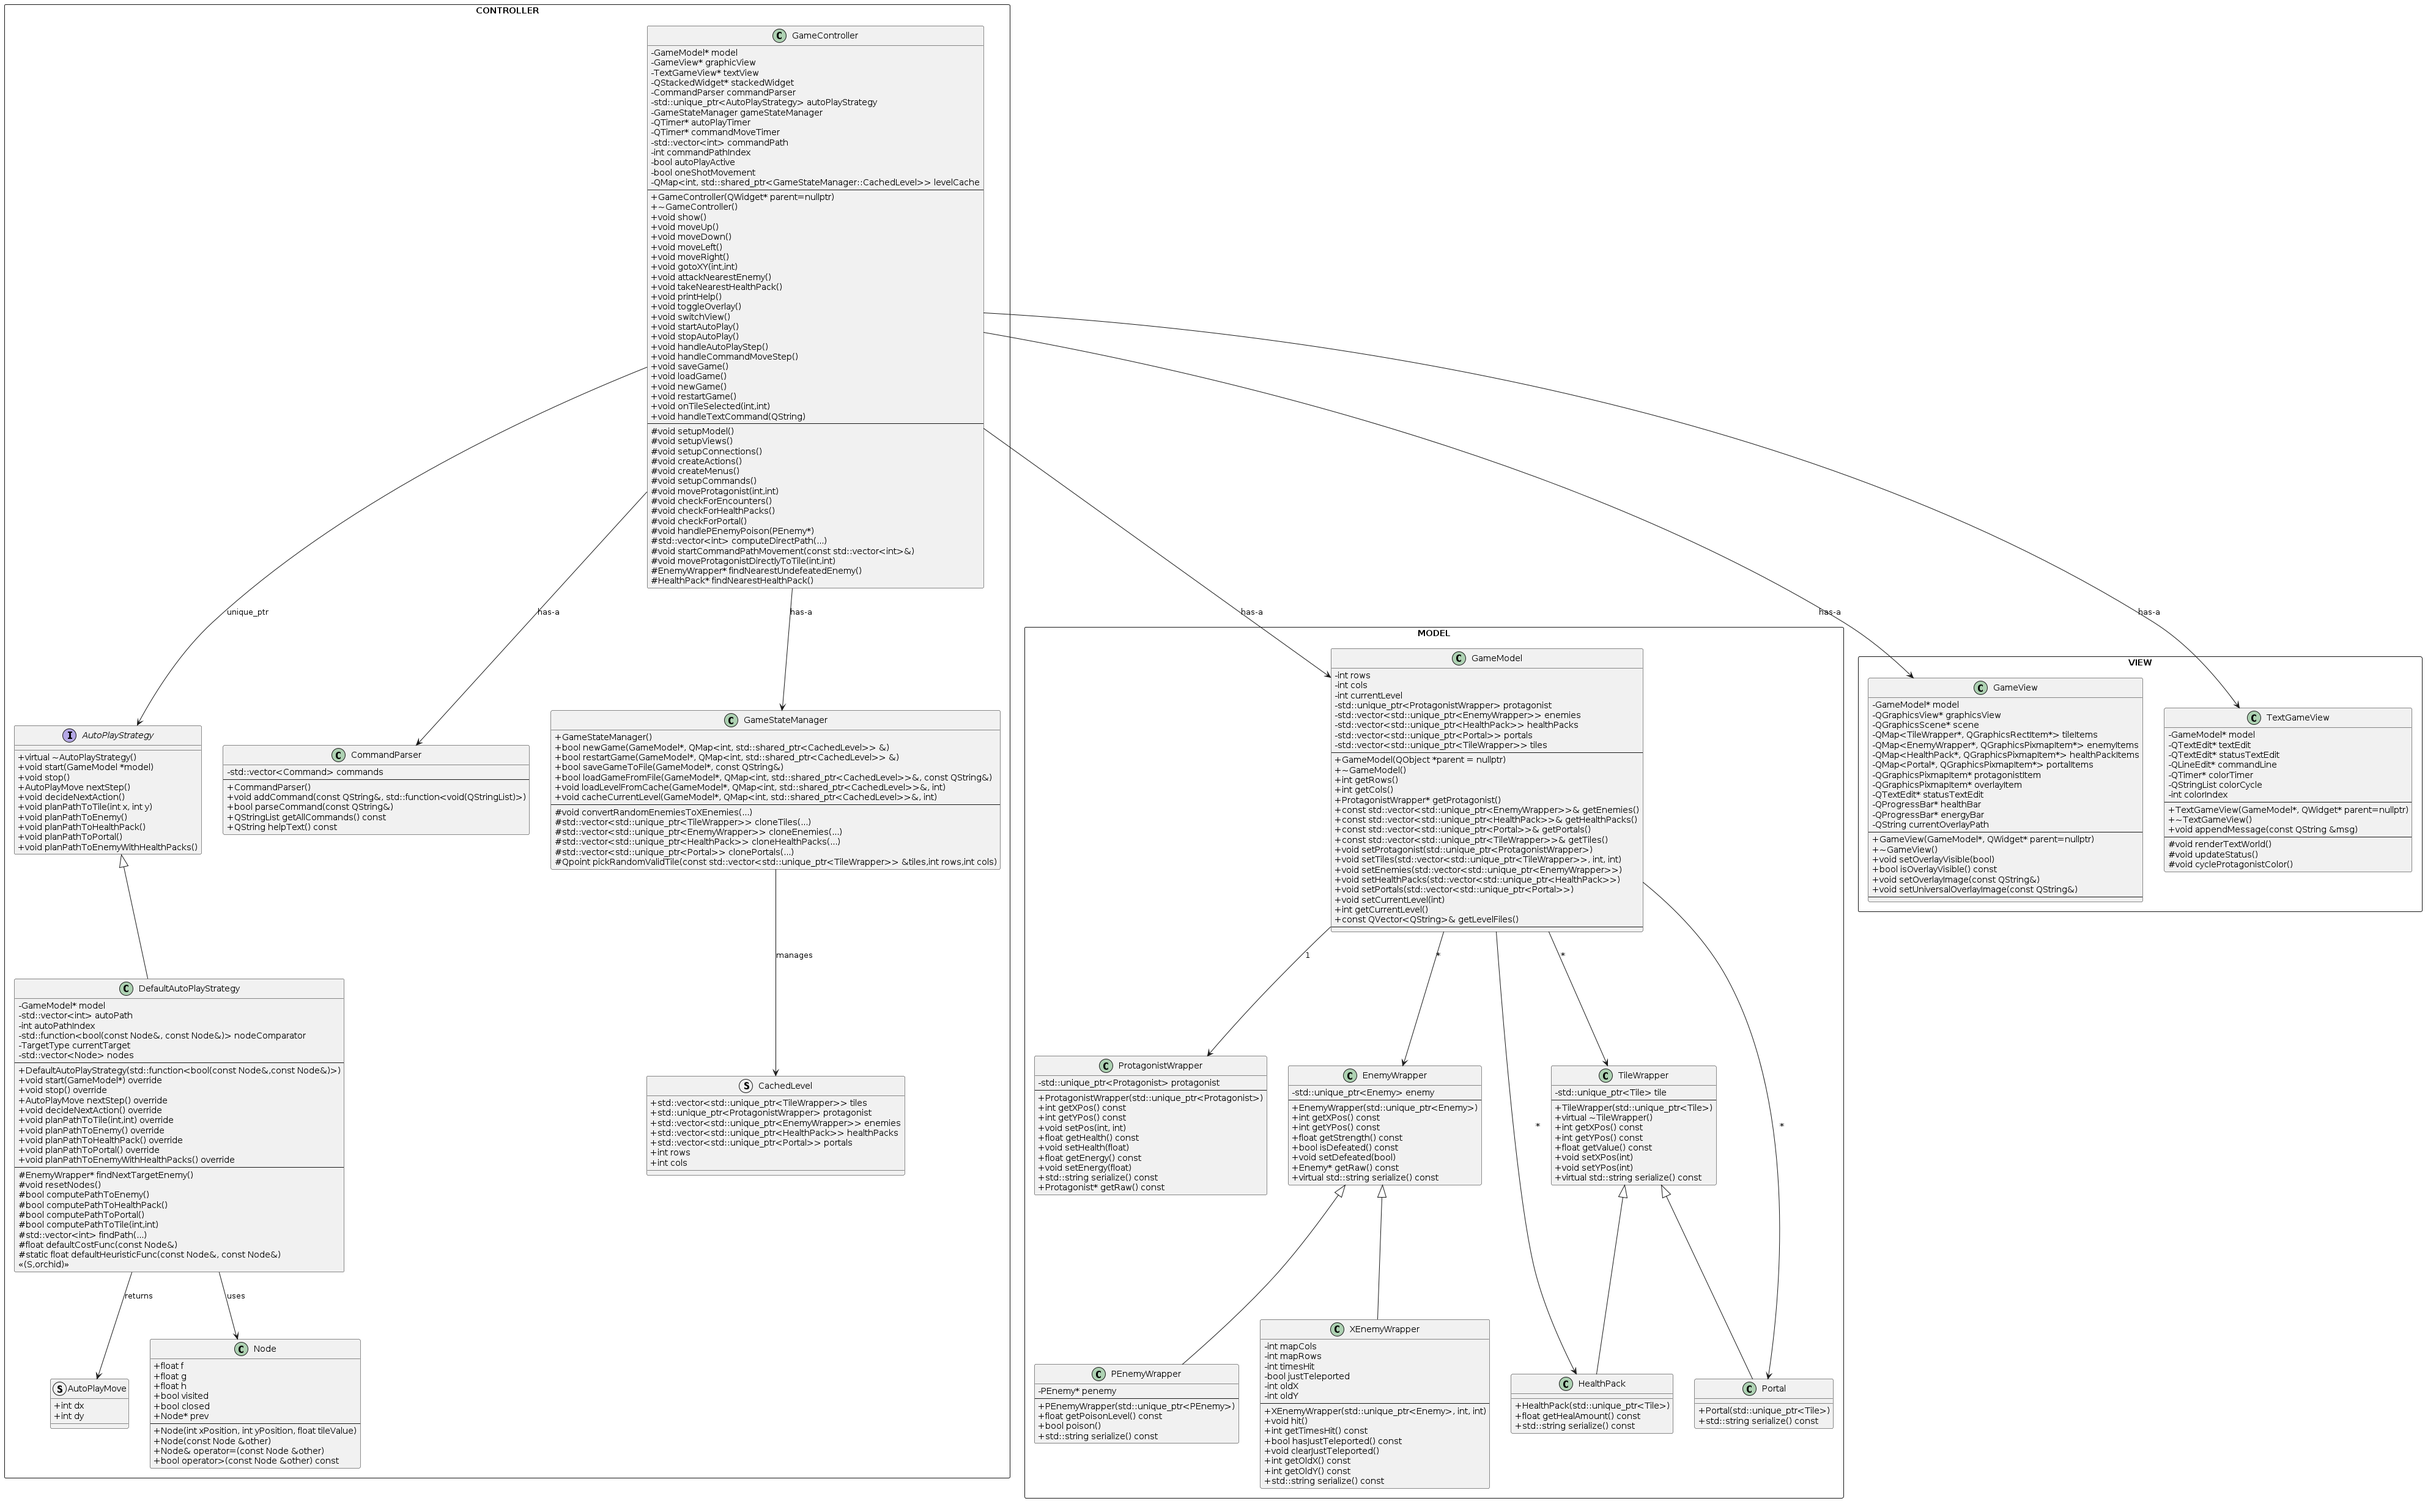
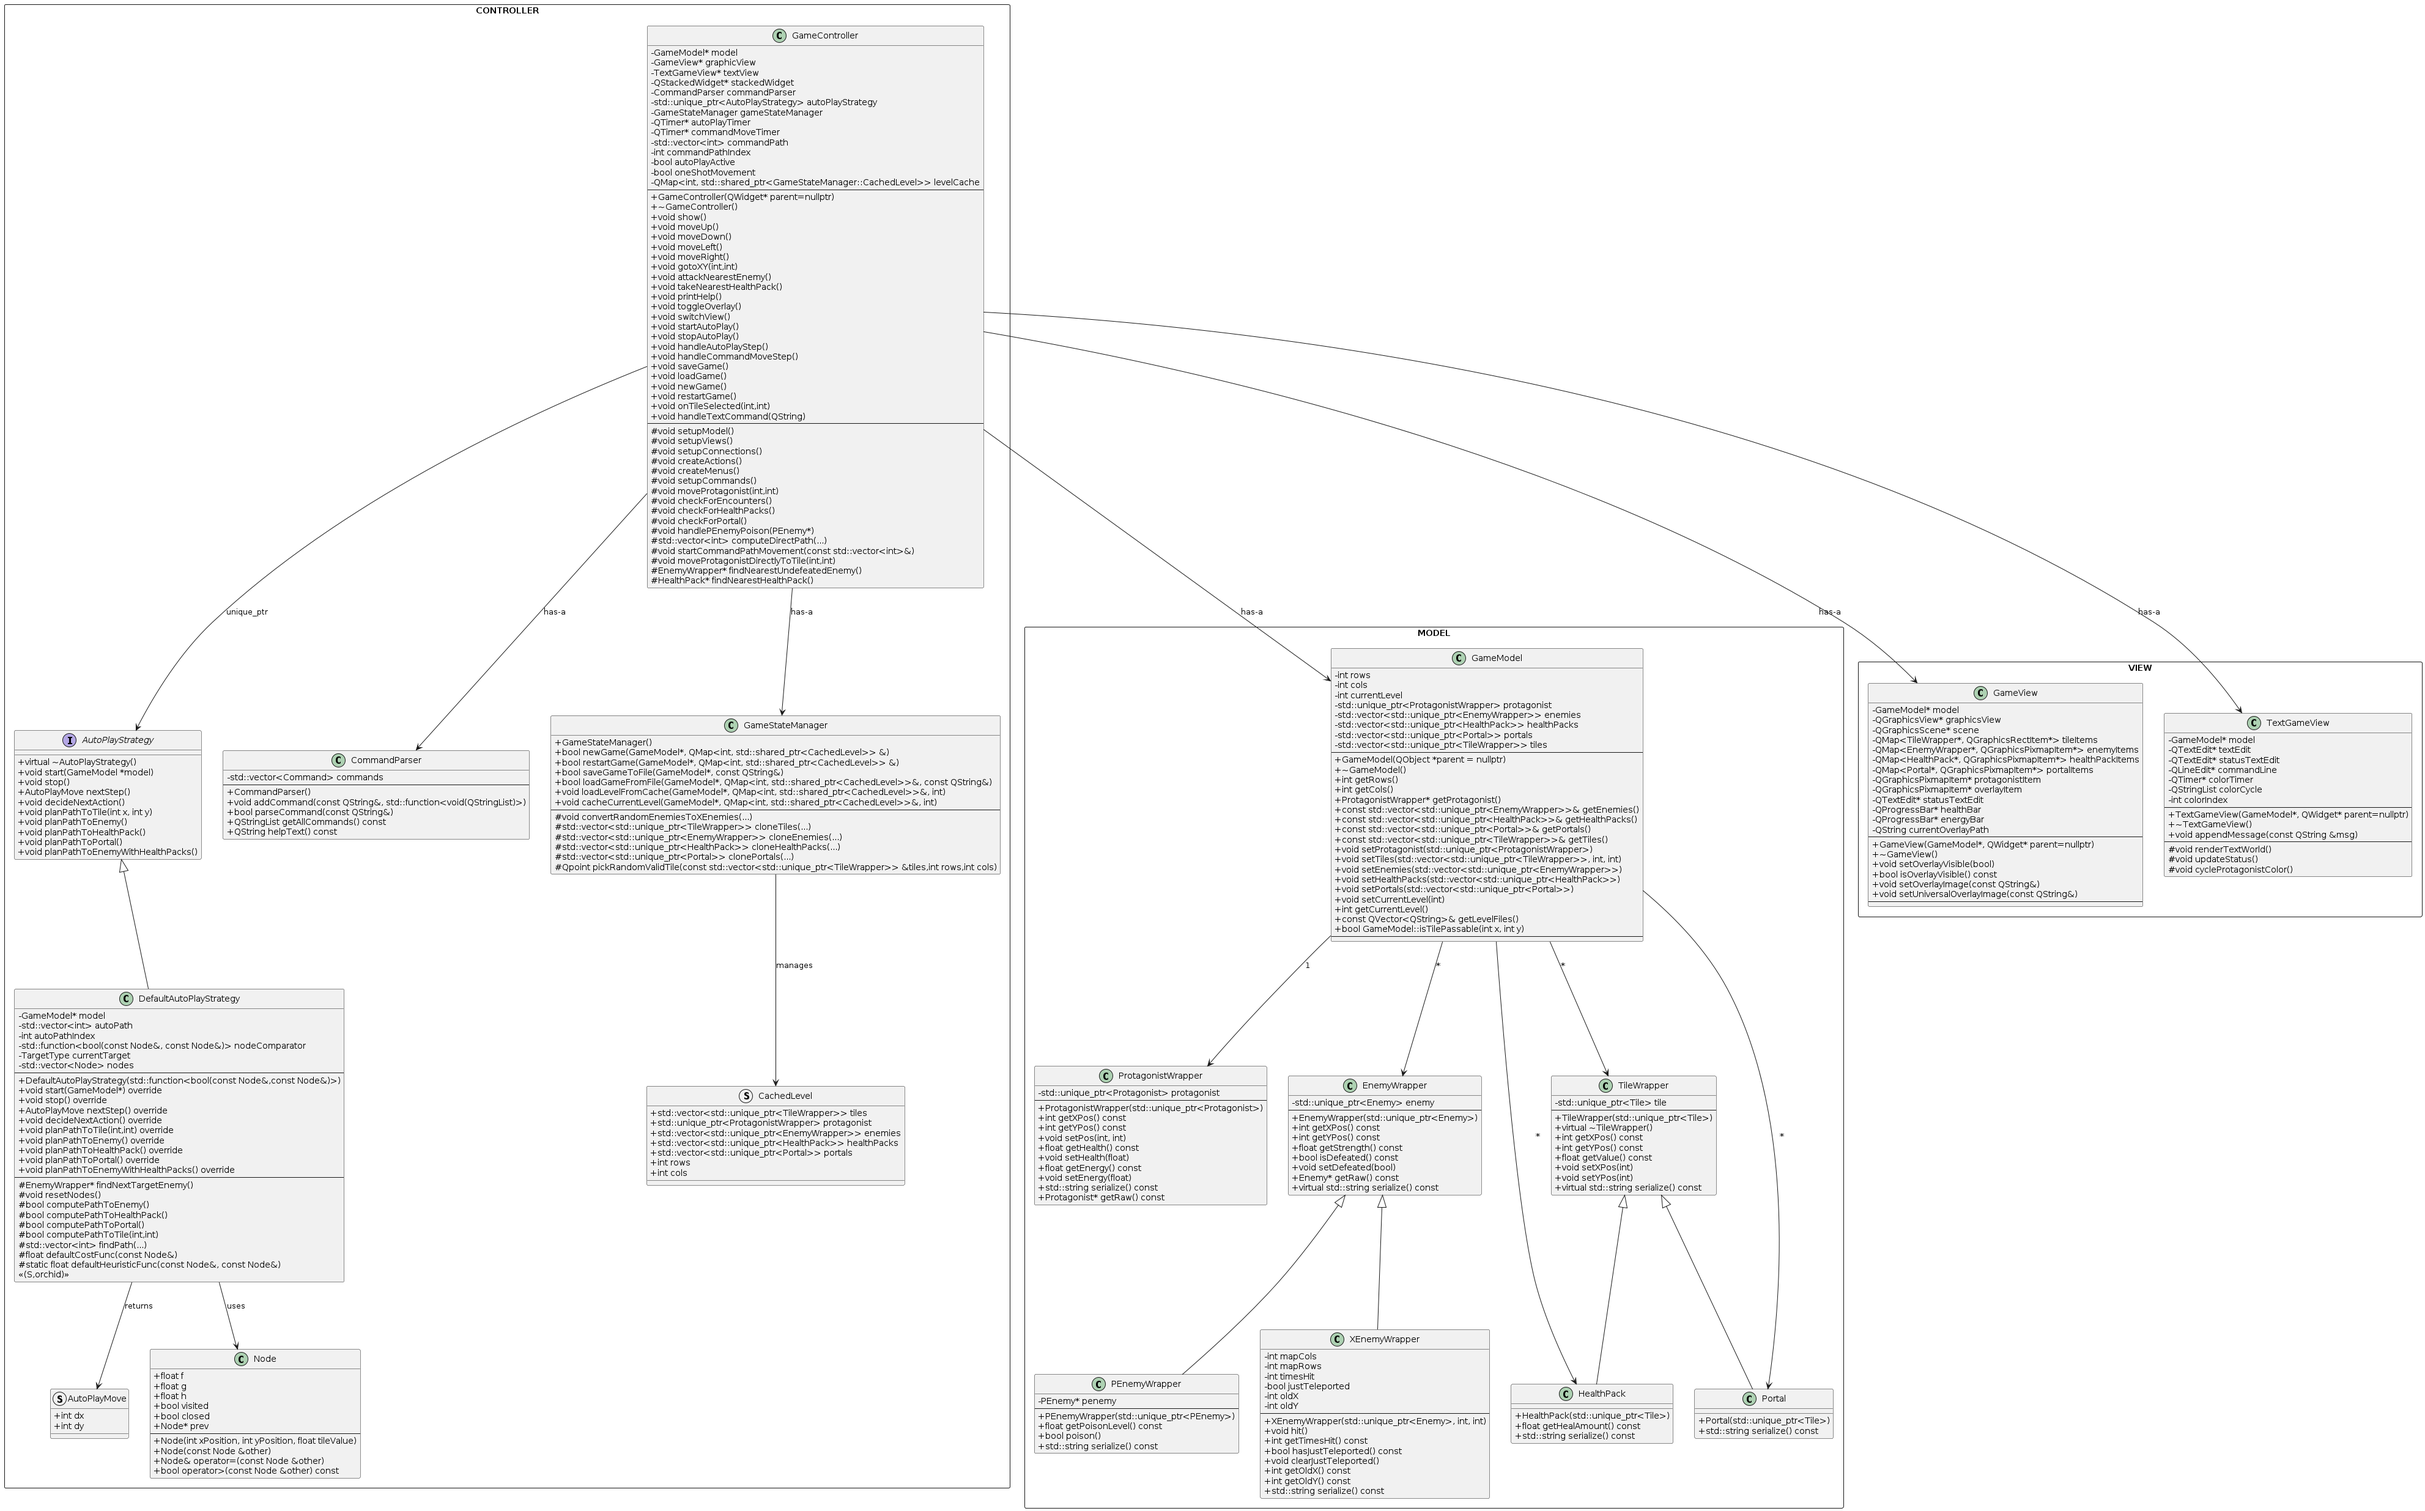
Add post-hit checks for XEnemy teleport in checkForEncounters
Immediately perform additional logic after calling xE->hit() on an
XEnemy (e.g.,
retrieve new coordinates) before emitting modelUpdated(), ensuring the
updated
positions or other conditions are handled in the same encounter step.

Also updated UML Design for adding function isTilePassable

diff --git a/gamemodel.cpp b/gamemodel.cpp
@@ -37,3 +37,23 @@ void GameModel::setPortals(std::vector<std::unique_ptr<Portal>> p) {
     portals = std::move(p);
     emit modelUpdated();
 }
+
+bool GameModel::isTilePassable(int x, int y) const
+{
+    // 1) Check bounds
+    if (x < 0 || x >= cols || y < 0 || y >= rows) {
+        return false;  // Out of bounds is definitely not passable
+    }
+
+    // 2) Convert (x, y) into an index for tiles[y*cols + x]
+    int index = y * cols + x;
+
+    // 3) Check if the tile is infinite
+    float tileValue = tiles[index]->getValue();
+    if (tileValue == std::numeric_limits<float>::infinity()) {
+        return false;  // Not passable
+    }
+
+    // Otherwise, it's passable
+    return true;
+}

diff --git a/gamecontroller.cpp b/gamecontroller.cpp
@@ -401,6 +401,14 @@ void GameController::checkForEncounters()
                 // XEnemy logic:
                 if (xE->getTimesHit() == 0) {
                     xE->hit();
+
+                    int newX = xE->getXPos();
+                    int newY = xE->getYPos();
+
+                    if(!model->isTilePassable(newX,newY)){
+                        xE->hit();
+                    }
+
                     emit model->modelUpdated();
                 } else if (xE->getTimesHit() == 1) {
                     float healthCost = e->getStrength();

diff --git a/gamemodel.h b/gamemodel.h
@@ -57,6 +57,7 @@ public:
 
     // For loading/saving and new/restart games
     const QVector<QString>& getLevelFiles() const { return levelFiles; }
+    bool isTilePassable(int x, int y) const;
 
 signals:
     void modelUpdated();
